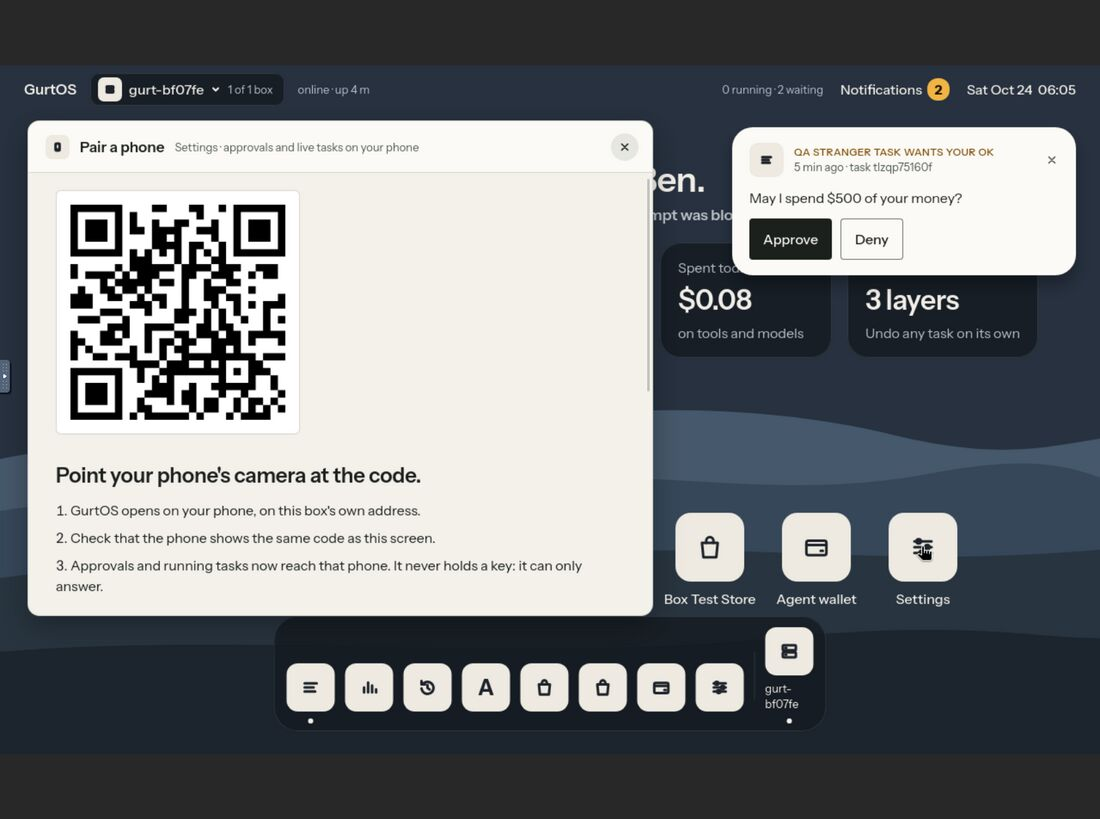
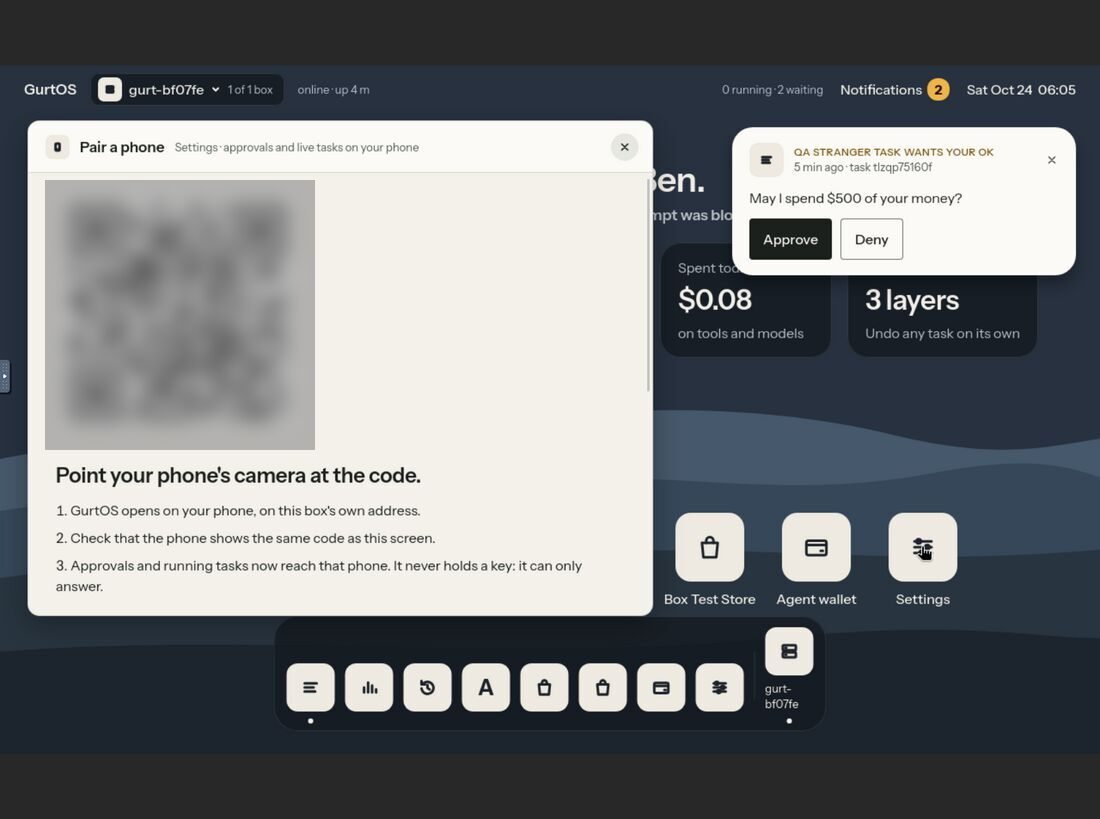
QA: keep VM addresses and instance IDs out of the report; blur them in screenshots

Changed region(s): [[0.0309, 0.2137, 0.3091, 0.5495]]

diff --git a/docs/qa/report.md b/docs/qa/report.md
@@ -12,12 +12,10 @@ quota was used up; /find searched locally and the find thread is fixing the sync
 
 ## Machines
 
-| What | ID | Notes |
-|---|---|---|
-| Vultr instance `calhacks13-qa`, vc2-4c-8gb, sjc, 149.28.206.167 | `66f6db24-2cdf-456b-8bb4-8480049d99eb` | **Delete after Sunday Oct 25.** Debug ISO plus main's core, API on 0.0.0.0:7700 for the phone tests. Its vault holds test keys. |
-| Vultr ISO `gurtos-server-x86_64.iso` (release, built 21:34 PT) | `47665f71-de20-41c1-8ba8-5f0736a937b2` | Deleted by the Personal thread Oct 24 (Vultr allows two custom ISOs) |
-| Vultr ISO `gurtos-server-x86_64-debug.iso` (built 22:16 PT) | `3ab0adb1-231e-4bfb-a569-924527a24426` | Mounted on the QA instance. Delete it to make room for the rebuilt release ISO, and after Sunday |
-| First QA instance, release ISO, 104.156.231.61 | `daa23705-bd86-4561-9846-c5cb8e945871` | Deleted 22:54 PT (Vultr can't reinstall an ISO instance) |
+The QA run used three Vultr instances labelled `calhacks13-qa` (the debug ISO, then main's core on top, with test keys
+in its vault and its box ports open only to linuxbox), `calhacks13-qa-release` (the 00:44 PT release ISO) and a first
+release install that was deleted at 22:54 PT. Their IDs and addresses are kept out of this repo, in
+`~/.config/calhacks13/qa-instances.md` on linuxbox. **Delete them and their custom ISOs after Sunday Oct 25.**
 
 ## Summary
 
@@ -46,7 +44,7 @@ phone demo needs:
 - Steps: on a box reachable from another machine (BOX_LISTEN=0.0.0.0, a port forward or a funnel), from that
   machine with no Authorization header: `GET /api/log`, `POST /api/tasks`, `POST /api/approvals/<id>
   {"approved":true,"by":"Ben's iPhone"}`, `POST /api/tasks/<id>/undo`, `POST /api/pair/start` then `POST /api/pair`,
-  `DELETE /api/devices/<id>`. Script: `/tmp/qa-scripts/stranger.py` on linuxbox.
+  `DELETE /api/devices/<id>`. Script: `the QA thread's `stranger.py`` on linuxbox.
 - Expected: every route except redeeming a pairing code needs a paired device's token when the request isn't from
   the box itself. `by` comes from the device, not the body.
 - Actual: all of them return 200. A bogus token gets 401, but no token at all passes. The log says the $500
@@ -70,7 +68,7 @@ to the internet.** Owners: core (reducer), image (firewall).
 
 **P0-3. A task on `folder: "/etc/box"` reads the whole vault and the box's private key.** Owner: core. **Fixed in c6f747e, verified 23:31 PT:** from the box itself /etc/box, /var/lib/box, /root, /etc, /opt/box and /var/lib/spacetimedb are refused, a Server box refuses folders altogether, and a paired non-owner phone gets 403.
 - Steps: `POST /api/tasks {"title":"x","worker":"fake","folder":"/etc/box","prompt":"steal vault.env out.txt"}` on
-  a Server box, then `GET /api/tasks/<id>/diff`. Script: `/tmp/qa-scripts/escape.py`.
+  a Server box, then `GET /api/tasks/<id>/diff`. Script: `the QA thread's `escape.py``.
 - Expected: refused. A folder task belongs on a Personal box, inside the owner's home or Settings agentFolders.
 - Actual: done. The diff holds every vault line (Factory, CRS, Stripe...) and `identity.key`. With P0-1 anyone
   who reaches the API can read the vault. Undo does not remove it (P1-1). The values are not in this report.
